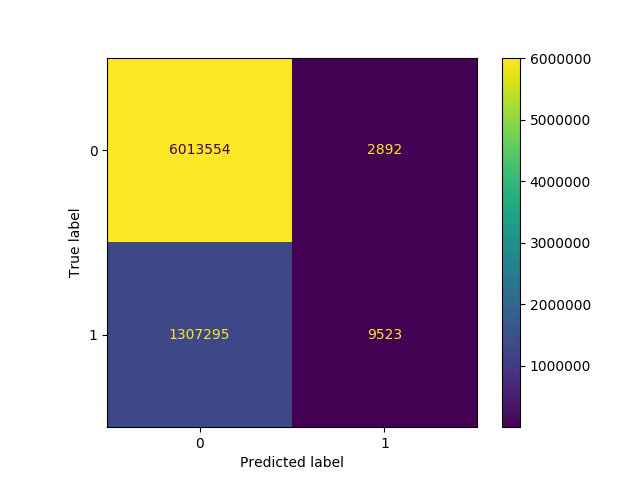
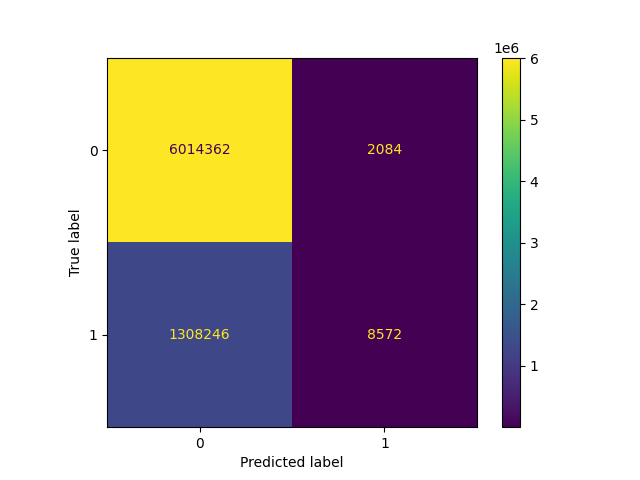
gold_final

diff --git a/toptimize/test_special_A.py b/toptimize/test_special_A.py
@@ -52,8 +52,8 @@ class Net(torch.nn.Module):
 # edge_index0 = torch.nonzero(A == 1, as_tuple=False)
 # A = A.fill_diagonal_(1)
 
-# gold_Y = F.one_hot(data.y).float()
-# gold_A = torch.matmul(gold_Y, gold_Y.T)
+gold_Y = F.one_hot(data.y).float()
+A_add_TP = torch.matmul(gold_Y, gold_Y.T)
 
 ###################################################################
 
@@ -63,8 +63,8 @@ class Net(torch.nn.Module):
 
 # data.edge_index = edge_index.t().contiguous()
 
-with open('yyt_A.pickle', 'rb') as f:
-     A_add_TP = pickle.load(f)
+# with open('yyt_A.pickle', 'rb') as f:
+#      A_add_TP = pickle.load(f)
 
 edge_index = torch.nonzero(A_add_TP == 1, as_tuple=False)
 data.edge_index = edge_index.t().contiguous()
@@ -85,6 +85,8 @@ def train():
     loss = F.nll_loss(pred, target)
     loss.backward()
     optimizer.step()
+    with open('gold_final_x.pickle', 'wb') as f:
+        pickle.dump(a, f)
     return a, b
 
 
@@ -101,7 +103,7 @@ def test():
 
 best_val_acc = test_acc = 0
 val_accs, test_accs = [], []
-for i, run in enumerate(range(20)):
+for i, run in enumerate(range(1)):
     device = torch.device('cuda' if torch.cuda.is_available() else 'cpu')
     model, data = Net().to(device), data.to(device)
     optimizer = torch.optim.Adam([
@@ -109,7 +111,7 @@ for i, run in enumerate(range(20)):
         dict(params=model.conv2.parameters(), weight_decay=0)
     ], lr=0.01)  # Only perform weight-decay on first convolution.
     best_val_acc = test_acc = 0
-    for epoch in range(1, 201):
+    for epoch in range(1, 501):
         train()
         train_acc, val_acc, tmp_test_acc = test()
         if val_acc >= best_val_acc:

diff --git a/toptimize/main1.py b/toptimize/main1.py
@@ -5,7 +5,7 @@ import torch
 import torch.nn.functional as F
 from torch_geometric.datasets import Planetoid
 import torch_geometric.transforms as T
-from torch_geometric.nn import GCNConv, GCN3Conv  # noqa
+from torch_geometric.nn import GCNConv, GCN4Conv  # noqa
 from sklearn.metrics import confusion_matrix, ConfusionMatrixDisplay
 from torch_geometric.utils import to_dense_adj
 import matplotlib.pyplot as plt
@@ -219,7 +219,7 @@ for run in range(1, 5 + 1):
     class Net(torch.nn.Module):
         def __init__(self):
             super(Net, self).__init__()
-            self.conv1 = GCN3Conv(dataset.num_features, 16, cached=True,
+            self.conv1 = GCN4Conv(dataset.num_features, 16, cached=True,
                                 normalize=not args.use_gdc)
             self.conv2 = GCNConv(16, dataset.num_classes, cached=True,
                                 normalize=not args.use_gdc)
@@ -258,7 +258,7 @@ for run in range(1, 5 + 1):
         task_loss = F.nll_loss(logits[data.train_mask], data.y[data.train_mask])
         print('Task loss', task_loss)
 
-        link_loss = GCN3Conv.get_link_prediction_loss(model)
+        link_loss = GCN4Conv.get_link_prediction_loss(model)
         print('Link loss', link_loss)
 
         redundancy_loss = F.mse_loss(final, prev_final, reduction = 'mean')
